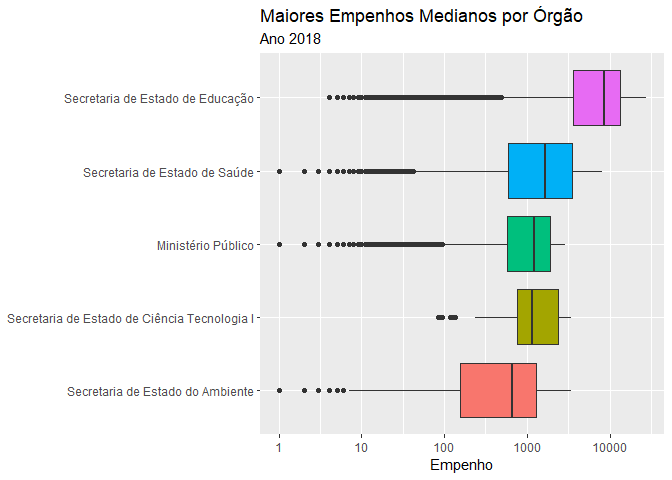
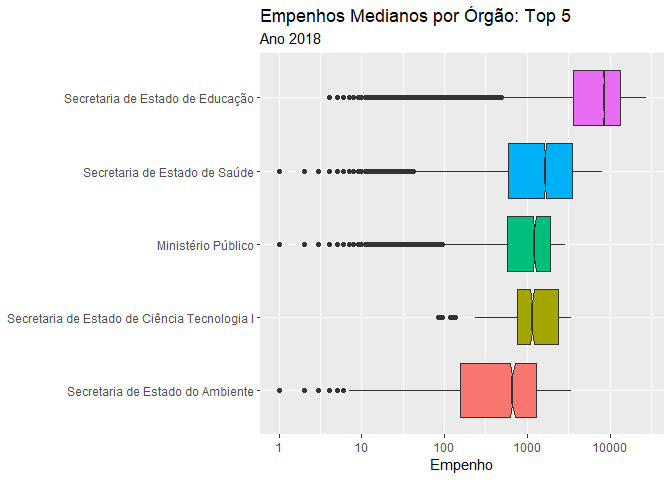
added violin plots

diff --git a/empenho.md b/empenho.md
@@ -271,14 +271,35 @@ df_orcamento %>%
   filter(as.integer(orgao)<6) %>%
   mutate(orgao=orgao%>%fct_rev) %>%
   ggplot(aes(orgao,Empenho)) +
-  geom_boxplot(aes(fill=orgao)) +
+  geom_boxplot(aes(fill=orgao),notch=T) +
   #scale_y_log10(trans="reverse") +
   coord_flip() +
   scale_y_continuous(trans="log10") +
-  labs(title="Maiores Empenhos Medianos por Órgão",
+  labs(title="Empenhos Medianos por Órgão: Top 5",
        subtitle="Ano 2018") +
   theme(legend.position = "none",
         axis.title.y=element_blank())
 ```
 
 ![](empenho_files/figure-gfm/unnamed-chunk-12-1.png)<!-- -->
+
+Ou como “violin” plot
+
+``` r
+df_orcamento %>%
+  rename(orgao=`Nome Órgão`) %>%
+  mutate(orgao=orgao%>%fct_reorder(-Empenho)) %>%
+  filter(as.integer(orgao)<6) %>%
+  mutate(orgao=orgao%>%fct_rev) %>%
+  ggplot(aes(orgao,Empenho)) +
+  geom_violin(aes(fill=orgao)) +
+  #scale_y_log10(trans="reverse") +
+  coord_flip() +
+  scale_y_continuous(trans="log10") +
+  labs(title="Empenhos Medianos por Órgão: Top 5",
+       subtitle="Ano 2018") +
+  theme(legend.position = "none",
+        axis.title.y=element_blank())
+```
+
+![](empenho_files/figure-gfm/unnamed-chunk-13-1.png)<!-- -->
